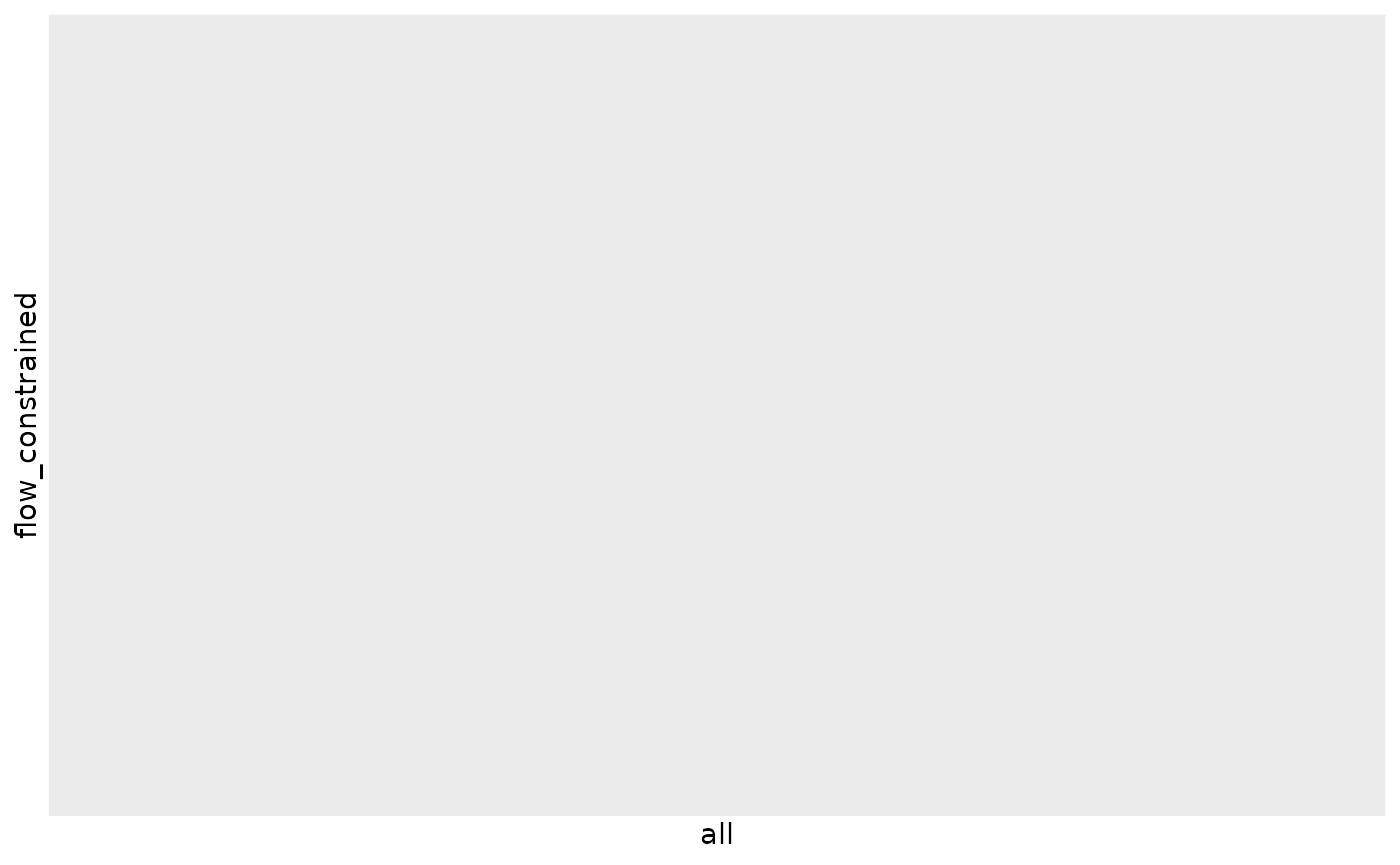
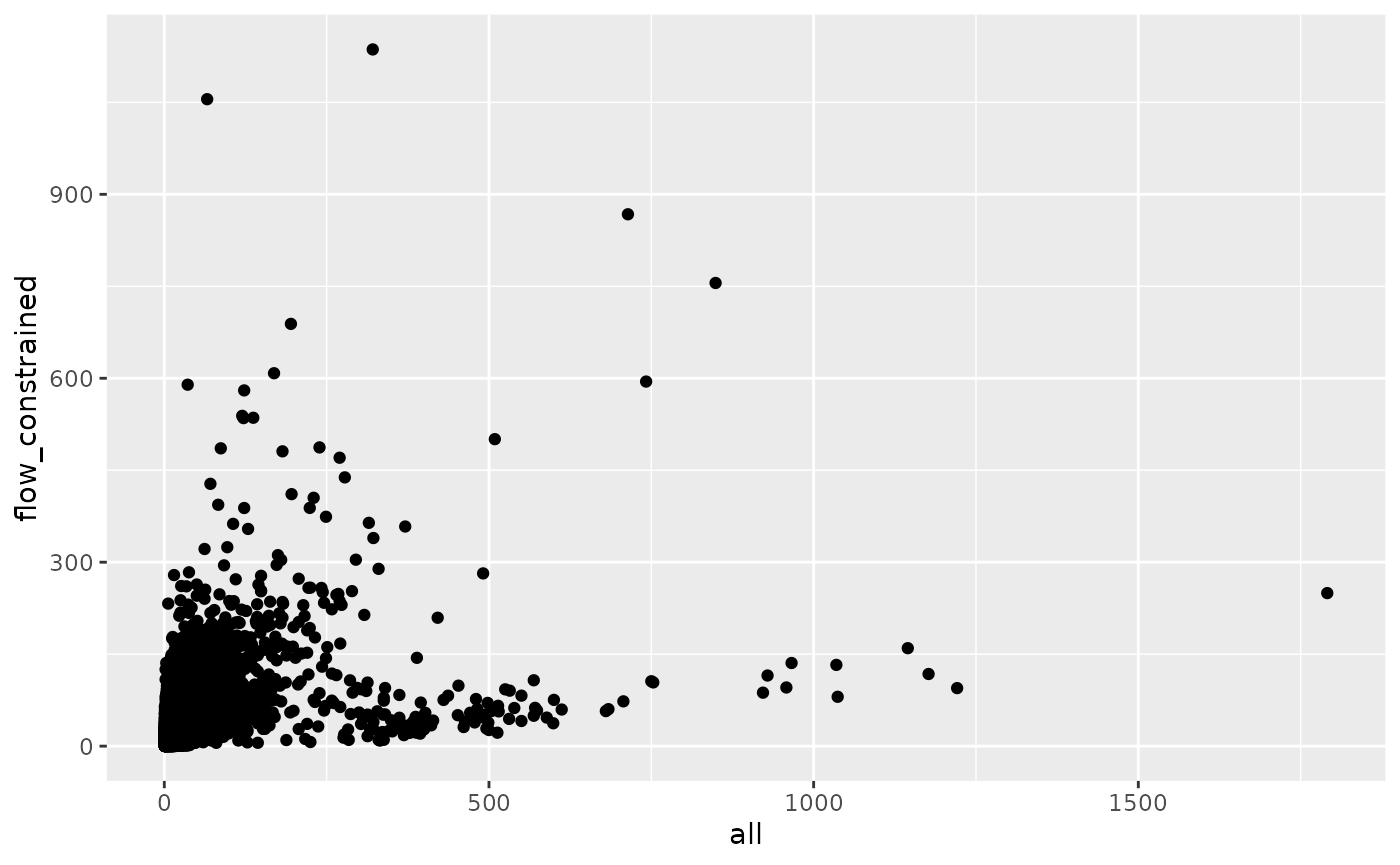
Built site for si: 0.0.1@48c3670
Former-commit-id: ca5a6a860ed6853a96f5a00d98253ae3fbaf69f9
Former-commit-id: 58bc8e3425d38b8aa6a76385d1b66add0c88c4be

diff --git a/articles/validation.html b/articles/validation.html
@@ -1,0 +1,147 @@
+<!DOCTYPE html>
+<!-- Generated by pkgdown: do not edit by hand --><html lang="en">
+<head>
+<meta http-equiv="Content-Type" content="text/html; charset=UTF-8">
+<meta charset="utf-8">
+<meta http-equiv="X-UA-Compatible" content="IE=edge">
+<meta name="viewport" content="width=device-width, initial-scale=1, shrink-to-fit=no">
+<meta name="description" content="si">
+<title>Validation of spatial interaction models • si</title>
+<script src="../deps/jquery-3.6.0/jquery-3.6.0.min.js"></script><meta name="viewport" content="width=device-width, initial-scale=1, shrink-to-fit=no">
+<link href="../deps/bootstrap-5.1.0/bootstrap.min.css" rel="stylesheet">
+<script src="../deps/bootstrap-5.1.0/bootstrap.bundle.min.js"></script><!-- Font Awesome icons --><link rel="stylesheet" href="https://cdnjs.cloudflare.com/ajax/libs/font-awesome/5.12.1/css/all.min.css" integrity="sha256-mmgLkCYLUQbXn0B1SRqzHar6dCnv9oZFPEC1g1cwlkk=" crossorigin="anonymous">
+<link rel="stylesheet" href="https://cdnjs.cloudflare.com/ajax/libs/font-awesome/5.12.1/css/v4-shims.min.css" integrity="sha256-wZjR52fzng1pJHwx4aV2AO3yyTOXrcDW7jBpJtTwVxw=" crossorigin="anonymous">
+<!-- bootstrap-toc --><script src="https://cdn.rawgit.com/afeld/bootstrap-toc/v1.0.1/dist/bootstrap-toc.min.js"></script><!-- headroom.js --><script src="https://cdnjs.cloudflare.com/ajax/libs/headroom/0.11.0/headroom.min.js" integrity="sha256-AsUX4SJE1+yuDu5+mAVzJbuYNPHj/WroHuZ8Ir/CkE0=" crossorigin="anonymous"></script><script src="https://cdnjs.cloudflare.com/ajax/libs/headroom/0.11.0/jQuery.headroom.min.js" integrity="sha256-ZX/yNShbjqsohH1k95liqY9Gd8uOiE1S4vZc+9KQ1K4=" crossorigin="anonymous"></script><!-- clipboard.js --><script src="https://cdnjs.cloudflare.com/ajax/libs/clipboard.js/2.0.6/clipboard.min.js" integrity="sha256-inc5kl9MA1hkeYUt+EC3BhlIgyp/2jDIyBLS6k3UxPI=" crossorigin="anonymous"></script><!-- search --><script src="https://cdnjs.cloudflare.com/ajax/libs/fuse.js/6.4.6/fuse.js" integrity="sha512-zv6Ywkjyktsohkbp9bb45V6tEMoWhzFzXis+LrMehmJZZSys19Yxf1dopHx7WzIKxr5tK2dVcYmaCk2uqdjF4A==" crossorigin="anonymous"></script><script src="https://cdnjs.cloudflare.com/ajax/libs/autocomplete.js/0.38.0/autocomplete.jquery.min.js" integrity="sha512-GU9ayf+66Xx2TmpxqJpliWbT5PiGYxpaG8rfnBEk1LL8l1KGkRShhngwdXK1UgqhAzWpZHSiYPc09/NwDQIGyg==" crossorigin="anonymous"></script><script src="https://cdnjs.cloudflare.com/ajax/libs/mark.js/8.11.1/mark.min.js" integrity="sha512-5CYOlHXGh6QpOFA/TeTylKLWfB3ftPsde7AnmhuitiTX4K5SqCLBeKro6sPS8ilsz1Q4NRx3v8Ko2IBiszzdww==" crossorigin="anonymous"></script><!-- pkgdown --><script src="../pkgdown.js"></script><meta property="og:title" content="Validation of spatial interaction models">
+<meta property="og:description" content="si">
+<!-- mathjax --><script src="https://cdnjs.cloudflare.com/ajax/libs/mathjax/2.7.5/MathJax.js" integrity="sha256-nvJJv9wWKEm88qvoQl9ekL2J+k/RWIsaSScxxlsrv8k=" crossorigin="anonymous"></script><script src="https://cdnjs.cloudflare.com/ajax/libs/mathjax/2.7.5/config/TeX-AMS-MML_HTMLorMML.js" integrity="sha256-84DKXVJXs0/F8OTMzX4UR909+jtl4G7SPypPavF+GfA=" crossorigin="anonymous"></script><!--[if lt IE 9]>
+<script src="https://oss.maxcdn.com/html5shiv/3.7.3/html5shiv.min.js"></script>
+<script src="https://oss.maxcdn.com/respond/1.4.2/respond.min.js"></script>
+<![endif]-->
+</head>
+<body>
+    <a href="#main" class="visually-hidden-focusable">Skip to contents</a>
+    
+
+    <nav class="navbar fixed-top navbar-light navbar-expand-lg bg-light"><div class="container">
+    
+    <a class="navbar-brand me-2" href="../index.html">si</a>
+
+    <small class="nav-text text-muted me-auto" data-bs-toggle="tooltip" data-bs-placement="bottom" title="">0.0.1</small>
+
+    
+    <button class="navbar-toggler" type="button" data-bs-toggle="collapse" data-bs-target="#navbar" aria-controls="navbar" aria-expanded="false" aria-label="Toggle navigation">
+      <span class="navbar-toggler-icon"></span>
+    </button>
+
+    <div id="navbar" class="collapse navbar-collapse ms-3">
+      <ul class="navbar-nav me-auto">
+<li class="nav-item">
+  <a class="nav-link" href="../articles/si.html">Get started</a>
+</li>
+<li class="nav-item">
+  <a class="nav-link" href="../reference/index.html">Reference</a>
+</li>
+<li class="active nav-item dropdown">
+  <a href="#" class="nav-link dropdown-toggle" data-bs-toggle="dropdown" role="button" aria-expanded="false" aria-haspopup="true" id="dropdown-articles">Articles</a>
+  <div class="dropdown-menu" aria-labelledby="dropdown-articles">
+    <a class="dropdown-item" href="../articles/validation.html">Validation of spatial interaction models</a>
+    <a class="dropdown-item" href="../articles/sims-first-principles.html">An introduction to spatial interaction models: from first principles</a>
+  </div>
+</li>
+      </ul>
+<form class="form-inline my-2 my-lg-0" role="search">
+        <input type="search" class="form-control me-sm-2" aria-label="Toggle navigation" name="search-input" data-search-index="../search.json" id="search-input" placeholder="Search for" autocomplete="off">
+</form>
+
+      <ul class="navbar-nav">
+<li class="nav-item">
+  <a class="external-link nav-link" href="https://github.com/robinlovelace/si/" aria-label="github">
+    <span class="fab fa fab fa-github fa-lg"></span>
+     
+  </a>
+</li>
+      </ul>
+</div>
+
+    
+  </div>
+</nav><div class="container template-article">
+
+
+
+<script src="validation_files/accessible-code-block-0.0.1/empty-anchor.js"></script><div class="row">
+  <main id="main"><div class="page-header">
+      <img src="" class="logo" alt=""><h1>Validation of spatial interaction models</h1>
+            
+      
+      <small class="dont-index">Source: <a href="https://github.com/robinlovelace/si/blob/HEAD/vignettes/articles/validation.Rmd" class="external-link"><code>vignettes/articles/validation.Rmd</code></a></small>
+      <div class="d-none name"><code>validation.Rmd</code></div>
+    </div>
+
+    
+    
+<div class="sourceCode" id="cb1"><pre class="downlit sourceCode r">
+<code class="sourceCode R"><span class="kw"><a href="https://rdrr.io/r/base/library.html" class="external-link">library</a></span><span class="op">(</span><span class="va"><a href="https://github.com/robinlovelace/si" class="external-link">si</a></span><span class="op">)</span>
+<span class="kw"><a href="https://rdrr.io/r/base/library.html" class="external-link">library</a></span><span class="op">(</span><span class="va"><a href="https://r-spatial.github.io/sf/" class="external-link">sf</a></span><span class="op">)</span>
+<span class="co">#&gt; Linking to GEOS 3.8.0, GDAL 3.0.4, PROJ 6.3.1; sf_use_s2() is TRUE</span></code></pre></div>
+<div class="section level2">
+<h2 id="validation-of-2011-od-data-for-leeds-uk">Validation of 2011 OD data for Leeds, UK<a class="anchor" aria-label="anchor" href="#validation-of-2011-od-data-for-leeds-uk"></a>
+</h2>
+<p>The input datasets for this example are as follows:</p>
+<ul>
+<li>Geographic boundary and centroid data from the <a href="https://itsleeds.github.io/pct/" class="external-link">{pct}</a> package, trip representing origins and destinations</li>
+<li>Origin-destination data representing trips to work from the 2011 Census</li>
+<li>Explanatory variables associated with zones, tbc</li>
+</ul>
+<p>The key input datasets are shown below</p>
+<div class="sourceCode" id="cb2"><pre class="downlit sourceCode r">
+<code class="sourceCode R"><span class="va">si_od_census</span>
+<span class="co">#&gt; <span style="color: #949494;"># A tibble: 54,106 × 18</span></span>
+<span class="co">#&gt;    O     D       all from_home light_rail train   bus  taxi motorbike car_driver</span>
+<span class="co">#&gt;    <span style="color: #949494; font-style: italic;">&lt;chr&gt;</span> <span style="color: #949494; font-style: italic;">&lt;chr&gt;</span> <span style="color: #949494; font-style: italic;">&lt;dbl&gt;</span>     <span style="color: #949494; font-style: italic;">&lt;dbl&gt;</span>      <span style="color: #949494; font-style: italic;">&lt;dbl&gt;</span> <span style="color: #949494; font-style: italic;">&lt;dbl&gt;</span> <span style="color: #949494; font-style: italic;">&lt;dbl&gt;</span> <span style="color: #949494; font-style: italic;">&lt;dbl&gt;</span>     <span style="color: #949494; font-style: italic;">&lt;dbl&gt;</span>      <span style="color: #949494; font-style: italic;">&lt;dbl&gt;</span></span>
+<span class="co">#&gt; <span style="color: #BCBCBC;"> 1</span> E020… E020…   168         0          1     2     3     1         1         81</span>
+<span class="co">#&gt; <span style="color: #BCBCBC;"> 2</span> E020… E020…   332         0          0     5    23     0         0        221</span>
+<span class="co">#&gt; <span style="color: #BCBCBC;"> 3</span> E020… E020…    16         0          0     2     0     0         0         13</span>
+<span class="co">#&gt; <span style="color: #BCBCBC;"> 4</span> E020… E020…    86         0          0     0     1     0         0         78</span>
+<span class="co">#&gt; <span style="color: #BCBCBC;"> 5</span> E020… E020…    12         0          0     0     0     0         0         10</span>
+<span class="co">#&gt; <span style="color: #BCBCBC;"> 6</span> E020… E020…    10         0          0     0     1     0         0          7</span>
+<span class="co">#&gt; <span style="color: #BCBCBC;"> 7</span> E020… E020…     5         0          0     0     0     0         0          5</span>
+<span class="co">#&gt; <span style="color: #BCBCBC;"> 8</span> E020… E020…    40         0          0     0     7     1         1         27</span>
+<span class="co">#&gt; <span style="color: #BCBCBC;"> 9</span> E020… E020…    10         0          0     0     0     0         0          9</span>
+<span class="co">#&gt; <span style="color: #BCBCBC;">10</span> E020… E020…    13         0          0     0     0     0         0         13</span>
+<span class="co">#&gt; <span style="color: #949494;"># … with 54,096 more rows, and 8 more variables: car_passenger &lt;dbl&gt;,</span></span>
+<span class="co">#&gt; <span style="color: #949494;">#   bicycle &lt;dbl&gt;, foot &lt;dbl&gt;, other &lt;dbl&gt;, geo_name1 &lt;chr&gt;, geo_name2 &lt;chr&gt;,</span></span>
+<span class="co">#&gt; <span style="color: #949494;">#   la_1 &lt;chr&gt;, la_2 &lt;chr&gt;</span></span>
+<span class="fu"><a href="https://r-spatial.github.io/sf/reference/plot.html" class="external-link">plot</a></span><span class="op">(</span><span class="va">si_zones</span><span class="op">$</span><span class="va">geometry</span><span class="op">)</span>
+<span class="fu"><a href="https://r-spatial.github.io/sf/reference/plot.html" class="external-link">plot</a></span><span class="op">(</span><span class="va">si_centroids</span><span class="op">$</span><span class="va">geometry</span>, add <span class="op">=</span> <span class="cn">TRUE</span><span class="op">)</span></code></pre></div>
+<p><img src="validation_files/figure-html/unnamed-chunk-2-1.png" width="700"></p>
+</div>
+<div class="section level2">
+<h2 id="valitation-based-on-2011-oa-wpz-data">Valitation based on 2011 OA-WPZ data<a class="anchor" aria-label="anchor" href="#valitation-based-on-2011-oa-wpz-data"></a>
+</h2>
+</div>
+  </main><aside class="col-md-3"><nav id="toc"><h2>On this page</h2>
+    </nav></aside>
+</div>
+
+
+
+    <footer><div class="pkgdown-footer-left">
+  <p></p>
+<p>Developed by Robin Lovelace, Jakub Nowosad.</p>
+</div>
+
+<div class="pkgdown-footer-right">
+  <p></p>
+<p>Site built with <a href="https://pkgdown.r-lib.org/" class="external-link">pkgdown</a> 2.0.2.</p>
+</div>
+
+    </footer>
+</div>
+
+  
+
+  
+
+  </body>
+</html>

diff --git a/reference/si_od_census.html b/reference/si_od_census.html
@@ -27,6 +27,7 @@
 <li class="nav-item dropdown">
   <a href="#" class="nav-link dropdown-toggle" data-bs-toggle="dropdown" role="button" aria-expanded="false" aria-haspopup="true" id="dropdown-articles">Articles</a>
   <div class="dropdown-menu" aria-labelledby="dropdown-articles">
+    <a class="dropdown-item" href="../articles/validation.html">Validation of spatial interaction models</a>
     <a class="dropdown-item" href="../articles/sims-first-principles.html">An introduction to spatial interaction models: from first principles</a>
   </div>
 </li>
@@ -64,10 +65,16 @@
     <div class="section level2">
     <h2 id="ref-examples">Examples<a class="anchor" aria-label="anchor" href="#ref-examples"></a></h2>
     <div class="sourceCode"><pre class="sourceCode r"><code><span class="r-in"><span class="fu"><a href="https://rdrr.io/r/utils/head.html" class="external-link">head</a></span><span class="op">(</span><span class="va">si_od_census</span><span class="op">)</span></span>
-<span class="r-out co"><span class="r-pr">#&gt;</span> <span style="color: #949494;"># A tibble: 0 × 18</span></span>
-<span class="r-out co"><span class="r-pr">#&gt;</span> <span style="color: #949494;"># … with 18 variables: O &lt;chr&gt;, D &lt;chr&gt;, all &lt;dbl&gt;, from_home &lt;dbl&gt;,</span></span>
-<span class="r-out co"><span class="r-pr">#&gt;</span> <span style="color: #949494;">#   light_rail &lt;dbl&gt;, train &lt;dbl&gt;, bus &lt;dbl&gt;, taxi &lt;dbl&gt;, motorbike &lt;dbl&gt;,</span></span>
-<span class="r-out co"><span class="r-pr">#&gt;</span> <span style="color: #949494;">#   car_driver &lt;dbl&gt;, car_passenger &lt;dbl&gt;, bicycle &lt;dbl&gt;, foot &lt;dbl&gt;,</span></span>
+<span class="r-out co"><span class="r-pr">#&gt;</span> <span style="color: #949494;"># A tibble: 6 × 18</span></span>
+<span class="r-out co"><span class="r-pr">#&gt;</span>   O      D       all from_home light_rail train   bus  taxi motorbike car_driver</span>
+<span class="r-out co"><span class="r-pr">#&gt;</span>   <span style="color: #949494; font-style: italic;">&lt;chr&gt;</span>  <span style="color: #949494; font-style: italic;">&lt;chr&gt;</span> <span style="color: #949494; font-style: italic;">&lt;dbl&gt;</span>     <span style="color: #949494; font-style: italic;">&lt;dbl&gt;</span>      <span style="color: #949494; font-style: italic;">&lt;dbl&gt;</span> <span style="color: #949494; font-style: italic;">&lt;dbl&gt;</span> <span style="color: #949494; font-style: italic;">&lt;dbl&gt;</span> <span style="color: #949494; font-style: italic;">&lt;dbl&gt;</span>     <span style="color: #949494; font-style: italic;">&lt;dbl&gt;</span>      <span style="color: #949494; font-style: italic;">&lt;dbl&gt;</span></span>
+<span class="r-out co"><span class="r-pr">#&gt;</span> <span style="color: #BCBCBC;">1</span> E0200… E020…   168         0          1     2     3     1         1         81</span>
+<span class="r-out co"><span class="r-pr">#&gt;</span> <span style="color: #BCBCBC;">2</span> E0200… E020…   332         0          0     5    23     0         0        221</span>
+<span class="r-out co"><span class="r-pr">#&gt;</span> <span style="color: #BCBCBC;">3</span> E0200… E020…    16         0          0     2     0     0         0         13</span>
+<span class="r-out co"><span class="r-pr">#&gt;</span> <span style="color: #BCBCBC;">4</span> E0200… E020…    86         0          0     0     1     0         0         78</span>
+<span class="r-out co"><span class="r-pr">#&gt;</span> <span style="color: #BCBCBC;">5</span> E0200… E020…    12         0          0     0     0     0         0         10</span>
+<span class="r-out co"><span class="r-pr">#&gt;</span> <span style="color: #BCBCBC;">6</span> E0200… E020…    10         0          0     0     1     0         0          7</span>
+<span class="r-out co"><span class="r-pr">#&gt;</span> <span style="color: #949494;"># … with 8 more variables: car_passenger &lt;dbl&gt;, bicycle &lt;dbl&gt;, foot &lt;dbl&gt;,</span></span>
 <span class="r-out co"><span class="r-pr">#&gt;</span> <span style="color: #949494;">#   other &lt;dbl&gt;, geo_name1 &lt;chr&gt;, geo_name2 &lt;chr&gt;, la_1 &lt;chr&gt;, la_2 &lt;chr&gt;</span></span>
 </code></pre></div>
     </div>

diff --git a/articles/sims-first-principles.html b/articles/sims-first-principles.html
@@ -44,6 +44,7 @@
 <li class="active nav-item dropdown">
   <a href="#" class="nav-link dropdown-toggle" data-bs-toggle="dropdown" role="button" aria-expanded="false" aria-haspopup="true" id="dropdown-articles">Articles</a>
   <div class="dropdown-menu" aria-labelledby="dropdown-articles">
+    <a class="dropdown-item" href="../articles/validation.html">Validation of spatial interaction models</a>
     <a class="dropdown-item" href="../articles/sims-first-principles.html">An introduction to spatial interaction models: from first principles</a>
   </div>
 </li>
@@ -206,7 +207,7 @@ A_{i}=\frac{1}{\sum_{j} m_{j} \mathrm{f}\left(c_{i j}\right)}
 <p><img src="sims-first-principles_files/figure-html/validation-1.png" width="700"></p>
 <div class="sourceCode" id="cb8"><pre class="downlit sourceCode r">
 <code class="sourceCode R"><span class="fu"><a href="https://rdrr.io/r/stats/cor.html" class="external-link">cor</a></span><span class="op">(</span><span class="va">od_dfjc</span><span class="op">$</span><span class="va">all</span>, <span class="va">od_dfjc</span><span class="op">$</span><span class="va">flow_constrained</span><span class="op">)</span><span class="op">^</span><span class="fl">2</span>
-<span class="co">#&gt; [1] NA</span></code></pre></div>
+<span class="co">#&gt; [1] 0.1735933</span></code></pre></div>
 </div>
 <div class="section level2">
 <h2 id="references">References<a class="anchor" aria-label="anchor" href="#references"></a>

diff --git a/articles/index.html b/articles/index.html
@@ -27,6 +27,7 @@
 <li class="nav-item dropdown">
   <a href="#" class="nav-link dropdown-toggle" data-bs-toggle="dropdown" role="button" aria-expanded="false" aria-haspopup="true" id="dropdown-articles">Articles</a>
   <div class="dropdown-menu" aria-labelledby="dropdown-articles">
+    <a class="dropdown-item" href="../articles/validation.html">Validation of spatial interaction models</a>
     <a class="dropdown-item" href="../articles/sims-first-principles.html">An introduction to spatial interaction models: from first principles</a>
   </div>
 </li>
@@ -53,7 +54,9 @@
       <h3>All vignettes</h3>
       <p class="section-desc"></p>
 
-      <dl><dt><a href="si.html">Spatial interaction models with R</a></dt>
+      <dl><dt><a href="validation.html">Validation of spatial interaction models</a></dt>
+        <dd>
+        </dd><dt><a href="si.html">Spatial interaction models with R</a></dt>
         <dd>
         </dd><dt><a href="sims-first-principles.html">An introduction to spatial interaction models: from first principles</a></dt>
         <dd>

diff --git a/articles/validation_files/accessible-code-block-0.0.1/empty-anchor.js b/articles/validation_files/accessible-code-block-0.0.1/empty-anchor.js
@@ -1,0 +1,15 @@
+// Hide empty <a> tag within highlighted CodeBlock for screen reader accessibility (see https://github.com/jgm/pandoc/issues/6352#issuecomment-626106786) -->
+// v0.0.1
+// Written by JooYoung Seo (jooyoung@psu.edu) and Atsushi Yasumoto on June 1st, 2020.
+
+document.addEventListener('DOMContentLoaded', function() {
+  const codeList = document.getElementsByClassName("sourceCode");
+  for (var i = 0; i < codeList.length; i++) {
+    var linkList = codeList[i].getElementsByTagName('a');
+    for (var j = 0; j < linkList.length; j++) {
+      if (linkList[j].innerHTML === "") {
+        linkList[j].setAttribute('aria-hidden', 'true');
+      }
+    }
+  }
+});

diff --git a/404.html b/404.html
@@ -42,6 +42,7 @@
 <li class="nav-item dropdown">
   <a href="https://robinlovelace.github.io/si/#" class="nav-link dropdown-toggle" data-bs-toggle="dropdown" role="button" aria-expanded="false" aria-haspopup="true" id="dropdown-articles">Articles</a>
   <div class="dropdown-menu" aria-labelledby="dropdown-articles">
+    <a class="dropdown-item" href="https://robinlovelace.github.io/si/articles/validation.html">Validation of spatial interaction models</a>
     <a class="dropdown-item" href="https://robinlovelace.github.io/si/articles/sims-first-principles.html">An introduction to spatial interaction models: from first principles</a>
   </div>
 </li>

diff --git a/reference/si_calculate.html b/reference/si_calculate.html
@@ -29,6 +29,7 @@ and user-specified function"><!-- mathjax --><script src="https://cdnjs.cloudfla
 <li class="nav-item dropdown">
   <a href="#" class="nav-link dropdown-toggle" data-bs-toggle="dropdown" role="button" aria-expanded="false" aria-haspopup="true" id="dropdown-articles">Articles</a>
   <div class="dropdown-menu" aria-labelledby="dropdown-articles">
+    <a class="dropdown-item" href="../articles/validation.html">Validation of spatial interaction models</a>
     <a class="dropdown-item" href="../articles/sims-first-principles.html">An introduction to spatial interaction models: from first principles</a>
   </div>
 </li>

diff --git a/reference/si_to_od.html b/reference/si_to_od.html
@@ -31,6 +31,7 @@ with a spatial interaction model"><!-- mathjax --><script src="https://cdnjs.clo
 <li class="nav-item dropdown">
   <a href="#" class="nav-link dropdown-toggle" data-bs-toggle="dropdown" role="button" aria-expanded="false" aria-haspopup="true" id="dropdown-articles">Articles</a>
   <div class="dropdown-menu" aria-labelledby="dropdown-articles">
+    <a class="dropdown-item" href="../articles/validation.html">Validation of spatial interaction models</a>
     <a class="dropdown-item" href="../articles/sims-first-principles.html">An introduction to spatial interaction models: from first principles</a>
   </div>
 </li>

diff --git a/reference/si_zones.html b/reference/si_zones.html
@@ -29,6 +29,7 @@ flows are to be estimated."><!-- mathjax --><script src="https://cdnjs.cloudflar
 <li class="nav-item dropdown">
   <a href="#" class="nav-link dropdown-toggle" data-bs-toggle="dropdown" role="button" aria-expanded="false" aria-haspopup="true" id="dropdown-articles">Articles</a>
   <div class="dropdown-menu" aria-labelledby="dropdown-articles">
+    <a class="dropdown-item" href="../articles/validation.html">Validation of spatial interaction models</a>
     <a class="dropdown-item" href="../articles/sims-first-principles.html">An introduction to spatial interaction models: from first principles</a>
   </div>
 </li>

diff --git a/articles/si.html b/articles/si.html
@@ -44,6 +44,7 @@
 <li class="nav-item dropdown">
   <a href="#" class="nav-link dropdown-toggle" data-bs-toggle="dropdown" role="button" aria-expanded="false" aria-haspopup="true" id="dropdown-articles">Articles</a>
   <div class="dropdown-menu" aria-labelledby="dropdown-articles">
+    <a class="dropdown-item" href="../articles/validation.html">Validation of spatial interaction models</a>
     <a class="dropdown-item" href="../articles/sims-first-principles.html">An introduction to spatial interaction models: from first principles</a>
   </div>
 </li>

diff --git a/reference/index.html b/reference/index.html
@@ -27,6 +27,7 @@
 <li class="nav-item dropdown">
   <a href="#" class="nav-link dropdown-toggle" data-bs-toggle="dropdown" role="button" aria-expanded="false" aria-haspopup="true" id="dropdown-articles">Articles</a>
   <div class="dropdown-menu" aria-labelledby="dropdown-articles">
+    <a class="dropdown-item" href="../articles/validation.html">Validation of spatial interaction models</a>
     <a class="dropdown-item" href="../articles/sims-first-principles.html">An introduction to spatial interaction models: from first principles</a>
   </div>
 </li>

diff --git a/reference/si-package.html b/reference/si-package.html
@@ -27,6 +27,7 @@
 <li class="nav-item dropdown">
   <a href="#" class="nav-link dropdown-toggle" data-bs-toggle="dropdown" role="button" aria-expanded="false" aria-haspopup="true" id="dropdown-articles">Articles</a>
   <div class="dropdown-menu" aria-labelledby="dropdown-articles">
+    <a class="dropdown-item" href="../articles/validation.html">Validation of spatial interaction models</a>
     <a class="dropdown-item" href="../articles/sims-first-principles.html">An introduction to spatial interaction models: from first principles</a>
   </div>
 </li>
